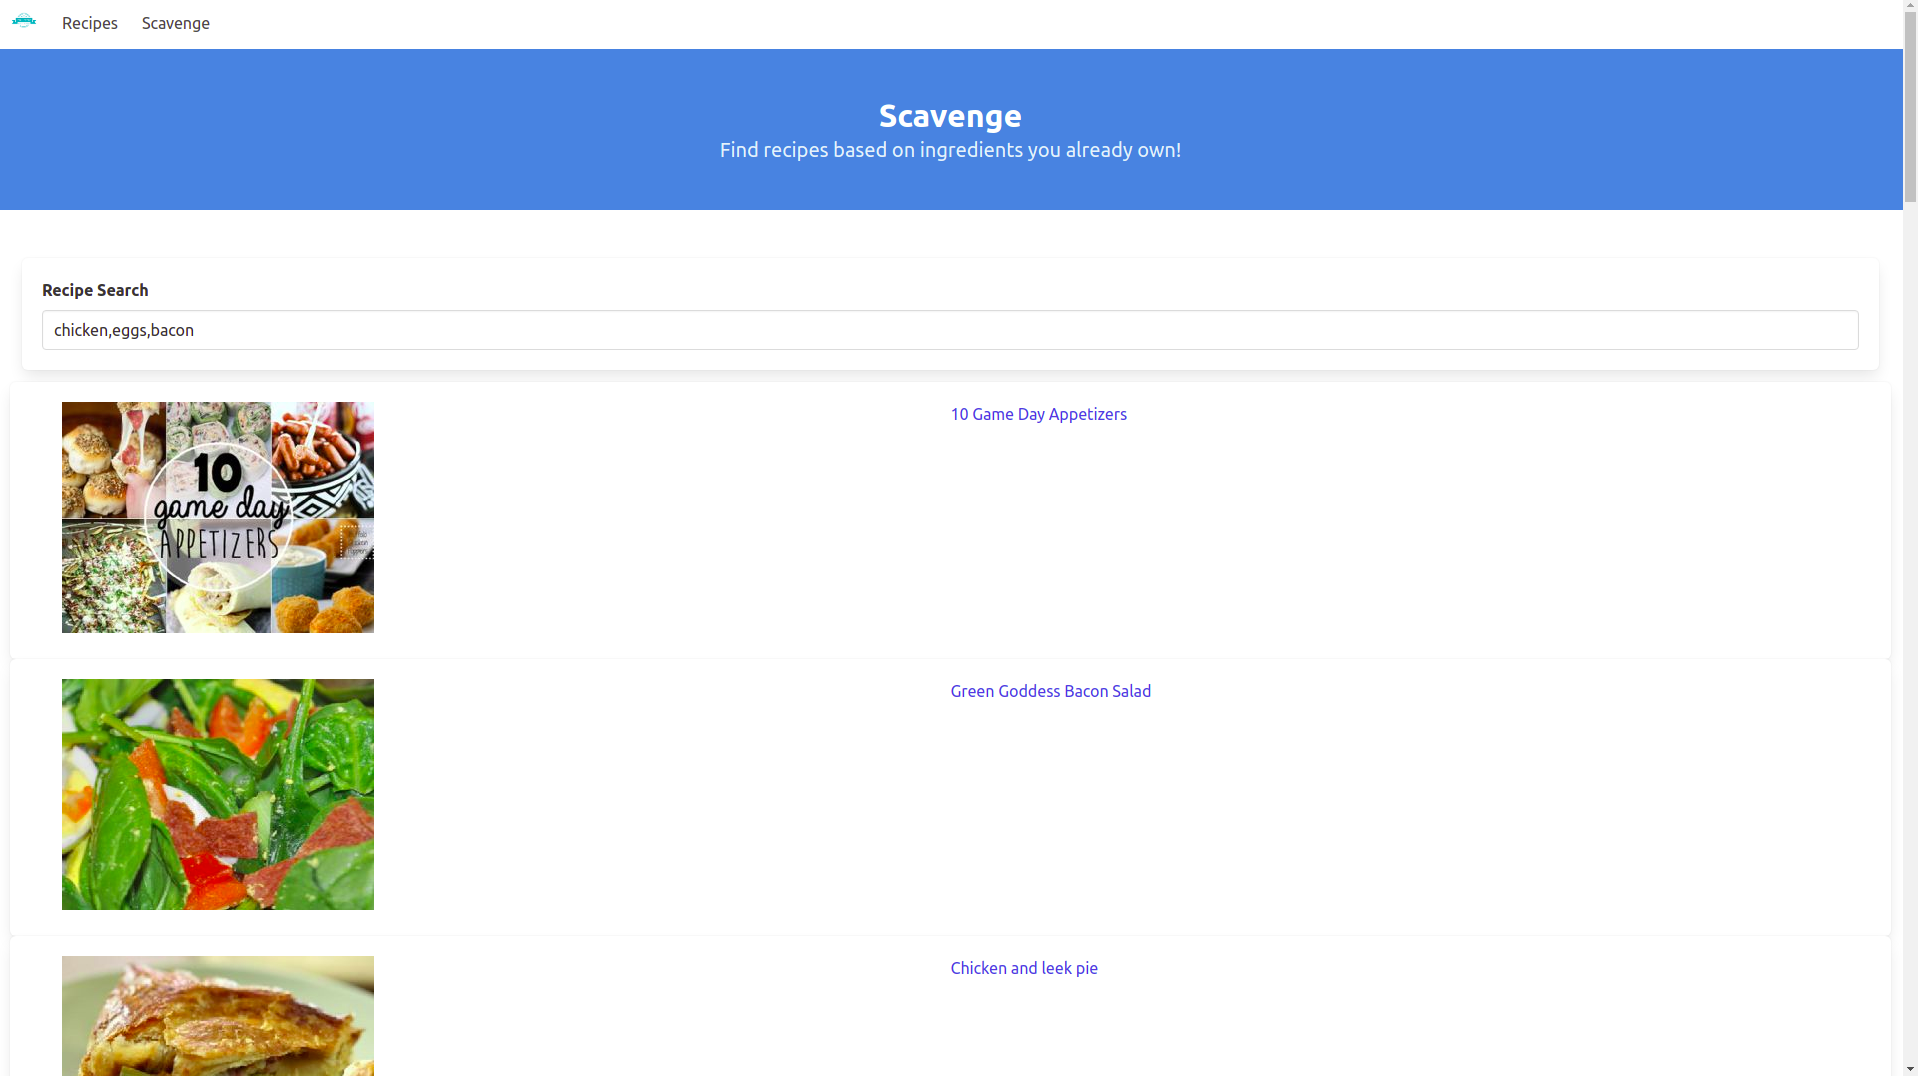
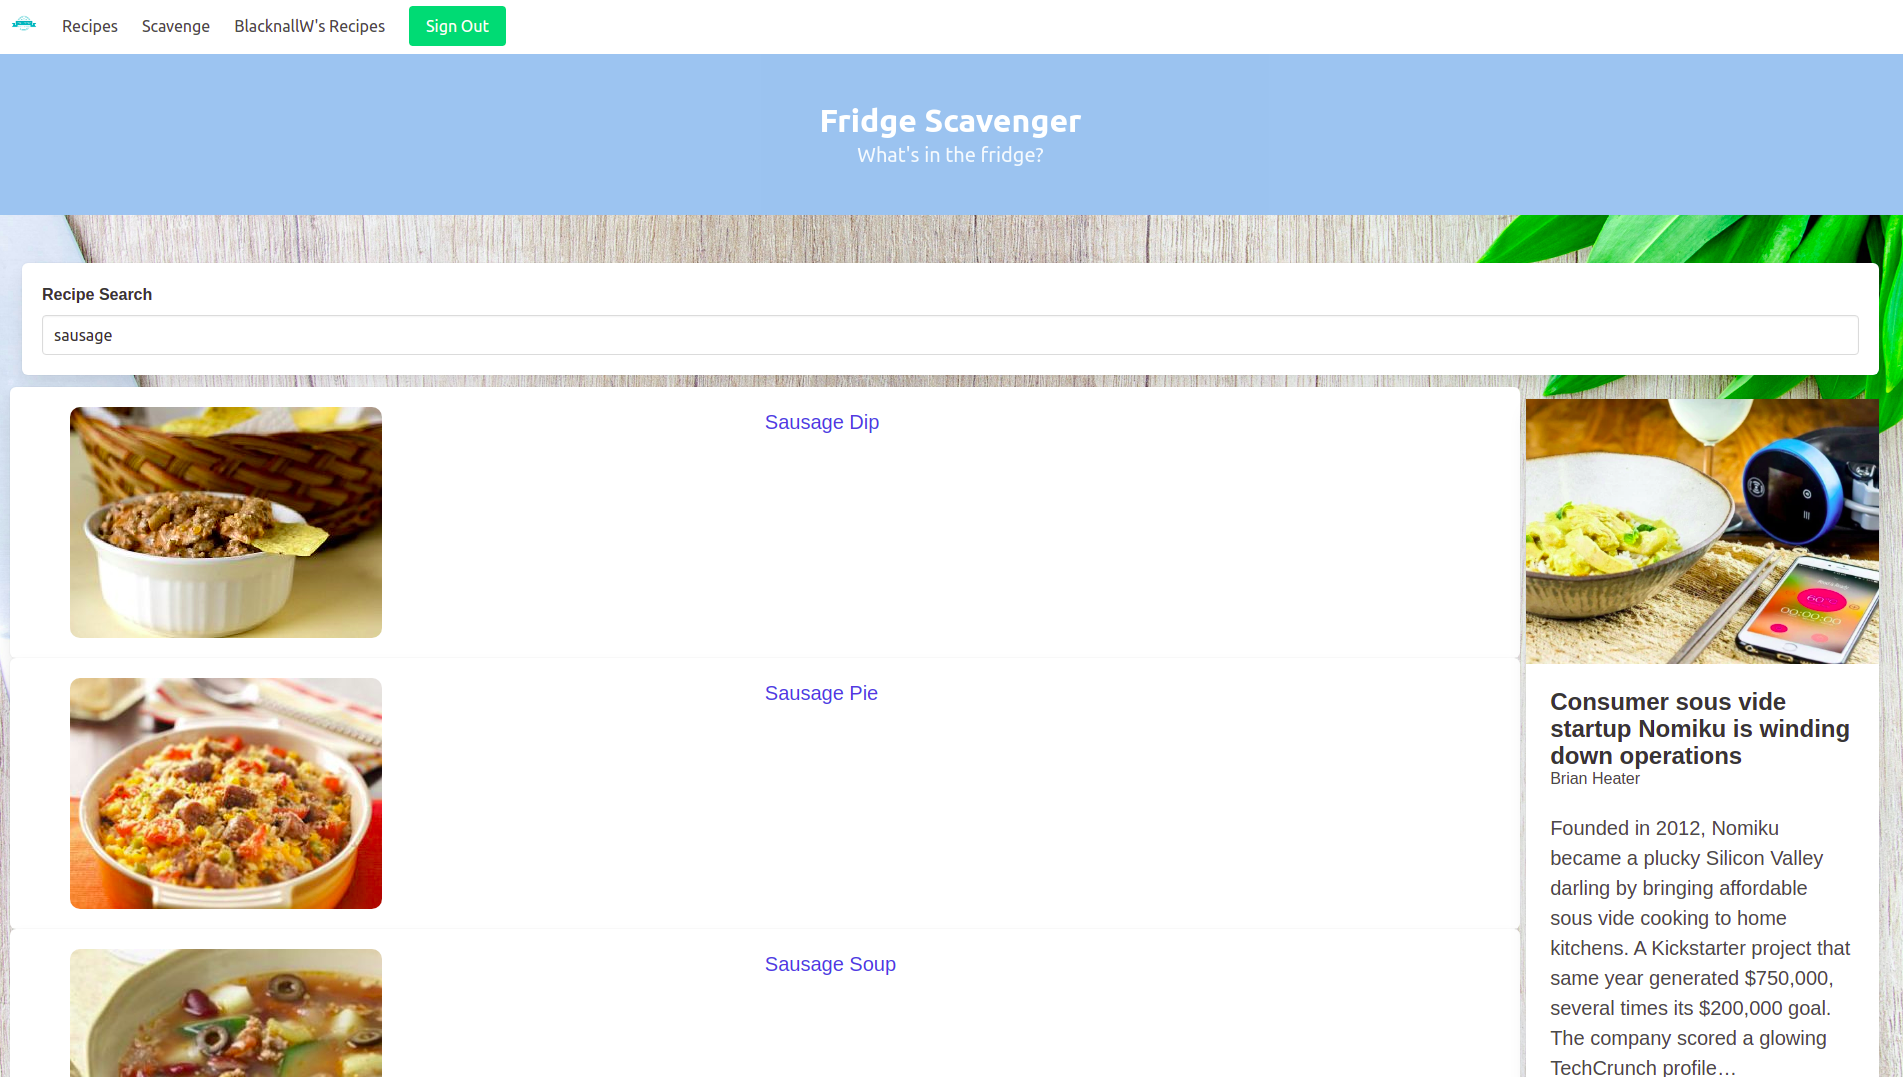
Added more information and updated screenshot of FridgeScavenger Project.

diff --git a/src/Components/ProjectsContainer.js b/src/Components/ProjectsContainer.js
@@ -139,7 +139,9 @@ export default function ProjectsContainer() {
 							<ul>
 								<li>
 									<strong>Role: </strong>Lead
-									Designer/Developer (Solo Project)
+									Designer/Developer (Solo Project) Major
+									Backend Assistance courtesy of Christopher
+									Kemp.
 								</li>
 								<li>
 									<strong>Description:</strong> Recipe
@@ -149,11 +151,13 @@ export default function ProjectsContainer() {
 								</li>
 								<li>
 									<strong>Features:</strong> Classic recipe
-									search, ingredient-based recipe search.
+									search, ingredient-based recipe search, user
+									login/logout/signup functionality, and
+									recipe saving.
 								</li>
 								<li>
 									<strong>Tools: </strong>NextJS, ReactJS,
-									BulmaCSS
+									BulmaCSS, Express, PostgreSQL
 								</li>
 								<li>
 									<strong>GitHub Repo: </strong>
